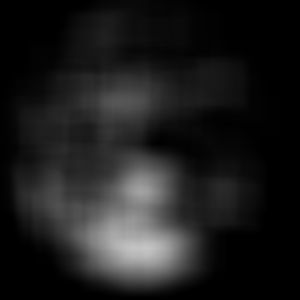
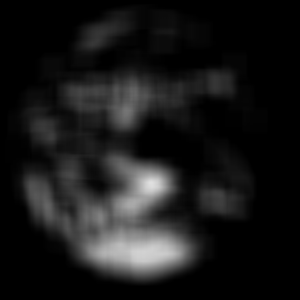
post A11

diff --git a/assts/asst11.html b/assts/asst11.html
@@ -15,17 +15,17 @@
 <div id="toctitle">Table of Contents</div>
 <ul class="sectlevel1">
 <li><a href="#_assignment_11_glow">Assignment 11: Glow</a></li>
-<li><a href="#_glow">1. Glow</a>
+<li><a href="#_background">Background</a>
 <ul class="sectlevel2">
-<li><a href="#_extract_bright_areas">1.1. Extract bright areas</a></li>
-<li><a href="#_blur">1.2. Blur</a></li>
-<li><a href="#_glow_2">1.3. Glow</a></li>
+<li><a href="#_extract_bright_areas">Extract bright areas</a></li>
+<li><a href="#_blur">Blur</a></li>
+<li><a href="#_glow">Glow</a></li>
 </ul>
 </li>
-<li><a href="#_single_threaded">2. Single-threaded</a></li>
-<li><a href="#_multi_threaded">3. Multi-threaded</a></li>
-<li><a href="#_submit_your_work">4. Submit your work</a></li>
-<li><a href="#_grading_rubric">5. Grading Rubric</a></li>
+<li><a href="#_single_threaded">1. Single-threaded</a></li>
+<li><a href="#_multi_threaded">2. Multi-threaded</a></li>
+<li><a href="#_submit_your_work">3. Submit your work</a></li>
+<li><a href="#_grading_rubric">4. Grading Rubric</a></li>
 </ul>
 </div>
 </div>
@@ -75,7 +75,7 @@
 </div>
 </div>
 <div class="sect1">
-<h2 id="_glow">1. Glow</h2>
+<h2 id="_background">Background</h2>
 <div class="sectionbody">
 <div class="paragraph">
 <p>In this assignment, you will implement a glow filter for images. You will implement the filter both single- and
@@ -98,7 +98,7 @@ multi-threaded.</p>
 </div>
 </div>
 <div class="paragraph">
-<p>Apply glow to an image requires three steps:</p>
+<p>This filter requires three steps:</p>
 </div>
 <div class="ulist">
 <ul>
@@ -106,7 +106,7 @@ multi-threaded.</p>
 <p>Extracting bright areas into a separate image</p>
 </li>
 <li>
-<p>Blurring the bright image</p>
+<p>Blurring the bright pixels</p>
 </li>
 <li>
 <p>Adding the blurred image to the original</p>
@@ -126,7 +126,7 @@ We will work with PPM files for this assignment.
 </table>
 </div>
 <div class="sect2">
-<h3 id="_extract_bright_areas">1.1. Extract bright areas</h3>
+<h3 id="_extract_bright_areas">Extract bright areas</h3>
 <div class="paragraph">
 <p>For each pixel, you can compute its brightness as the average of its red, green, and blue values. E.g.</p>
 </div>
@@ -138,7 +138,7 @@ We will work with PPM files for this assignment.
 <div class="paragraph">
 <p>We can compare this brightness to a threshold, say 200, to determine if we should apply the glow to this area.
 For the image below, we iterated through every pixel in the original image, computed its brightness, and
-then saved a white pixel to a new image if the pixel exceeded the threshold.</p>
+then saved its brightness to a new image if the pixel exceeded the threshold.</p>
 </div>
 <div class="imageblock">
 <div class="content">
@@ -147,7 +147,7 @@ then saved a white pixel to a new image if the pixel exceeded the threshold.</p>
 </div>
 </div>
 <div class="sect2">
-<h3 id="_blur">1.2. Blur</h3>
+<h3 id="_blur">Blur</h3>
 <div class="paragraph">
 <p>For this assignment, we will apply a box blur to each pixel in the image computed in the previous step.</p>
 </div>
@@ -157,9 +157,9 @@ only at the immediate neighbors of the pixel (i,j), the new color would be as fo
 </div>
 <div class="stemblock">
 <div class="content">
-\[newPixel_{i,j} = (p_{i-1,j-1} + p_{i,j-1} + p_{i+1,j-1}
-                 p_{i-1,j}   + p_{i,j}   + p_{i+1,j}
-                 p_{i-1,j+1} + p_{i,j+1} + p_{i+1,j+1} )/9\]
+\[new_{i,j} = (p_{i-1,j-1} + p_{i,j-1} + p_{i+1,j-1} +
+             p_{i-1,j}   + p_{i,j}   + p_{i+1,j} +
+             p_{i-1,j+1} + p_{i,j+1} + p_{i+1,j+1} )/9\]
 </div>
 </div>
 <div class="paragraph">
@@ -168,7 +168,7 @@ width 3 and height 3.</p>
 </div>
 <div class="paragraph">
 <p>We compute the blur separately for each color channel (read, blue, green). In the image below, we used a
-box size of 49. In other words, we used the 24 neighbors that were left, right, above, and below of the current
+box size of 25. In other words, we used the 24 neighbors that were left, right, above, and below of the current
 pixel. If a pixel is near the edge of the image, we can clamp the blur indices so they stay in the image.</p>
 </div>
 <div class="imageblock">
@@ -183,32 +183,32 @@ pixel. If a pixel is near the edge of the image, we can clamp the blur indices s
 <i class="fa icon-note" title="Note"></i>
 </td>
 <td class="content">
-The glow will look better with a gaussian blur. Feel free to implement one instead!
+The glow will look better with a gaussian blur. Feel free to implement one instead
 </td>
 </tr>
 </table>
 </div>
 </div>
 <div class="sect2">
-<h3 id="_glow_2">1.3. Glow</h3>
+<h3 id="_glow">Glow</h3>
 <div class="paragraph">
-<p>The glow effect is achieved by adding the blurred image with the original image.</p>
+<p>The glow effect is achieved by adding the blurred image (bij) with the original image (oij).</p>
 </div>
 <div class="stemblock">
 <div class="content">
-\[newPixel_{i,j} = originalPixel_{i,j} + blurPixel_{i,j}\]
+\[new_{i,j} = o_{i,j} + b_{i,j}\]
 </div>
 </div>
 <div class="imageblock">
 <div class="content">
-<img src="img/blur.png" alt="blur">
+<img src="img/glow.png" alt="glow">
 </div>
 </div>
 </div>
 </div>
 </div>
 <div class="sect1">
-<h2 id="_single_threaded">2. Single-threaded</h2>
+<h2 id="_single_threaded">1. Single-threaded</h2>
 <div class="sectionbody">
 <div class="paragraph">
 <p>In the file, <code>glow.c</code>, implement a single-threaded program that applies a glow effect to the image "earth-small.ppm".
@@ -242,7 +242,7 @@ sys     0m0.001s</code></pre>
 </div>
 </div>
 <div class="sect1">
-<h2 id="_multi_threaded">3. Multi-threaded</h2>
+<h2 id="_multi_threaded">2. Multi-threaded</h2>
 <div class="sectionbody">
 <div class="paragraph">
 <p>In the file, <code>glow_multithreaded.c</code>, implement a program that applies a glow effect using multiple threads.
@@ -288,7 +288,7 @@ sys     0m0.000s</code></pre>
 </div>
 </div>
 <div class="sect1">
-<h2 id="_submit_your_work">4. Submit your work</h2>
+<h2 id="_submit_your_work">3. Submit your work</h2>
 <div class="sectionbody">
 <div class="paragraph">
 <p>Submit both your code and images.</p>
@@ -310,7 +310,7 @@ $ git status</code></pre>
 </div>
 </div>
 <div class="sect1">
-<h2 id="_grading_rubric">5. Grading Rubric</h2>
+<h2 id="_grading_rubric">4. Grading Rubric</h2>
 <div class="sectionbody">
 <div class="paragraph">
 <p><strong>Assignment rubrics</strong></p>
@@ -375,7 +375,7 @@ have good style.</p>
 </div>
 <div id="footer">
 <div id="footer-text">
-Last updated 2025-04-05 12:47:06 -0400
+Last updated 2025-04-05 12:59:03 -0400
 </div>
 </div>
 <script type="text/x-mathjax-config">
